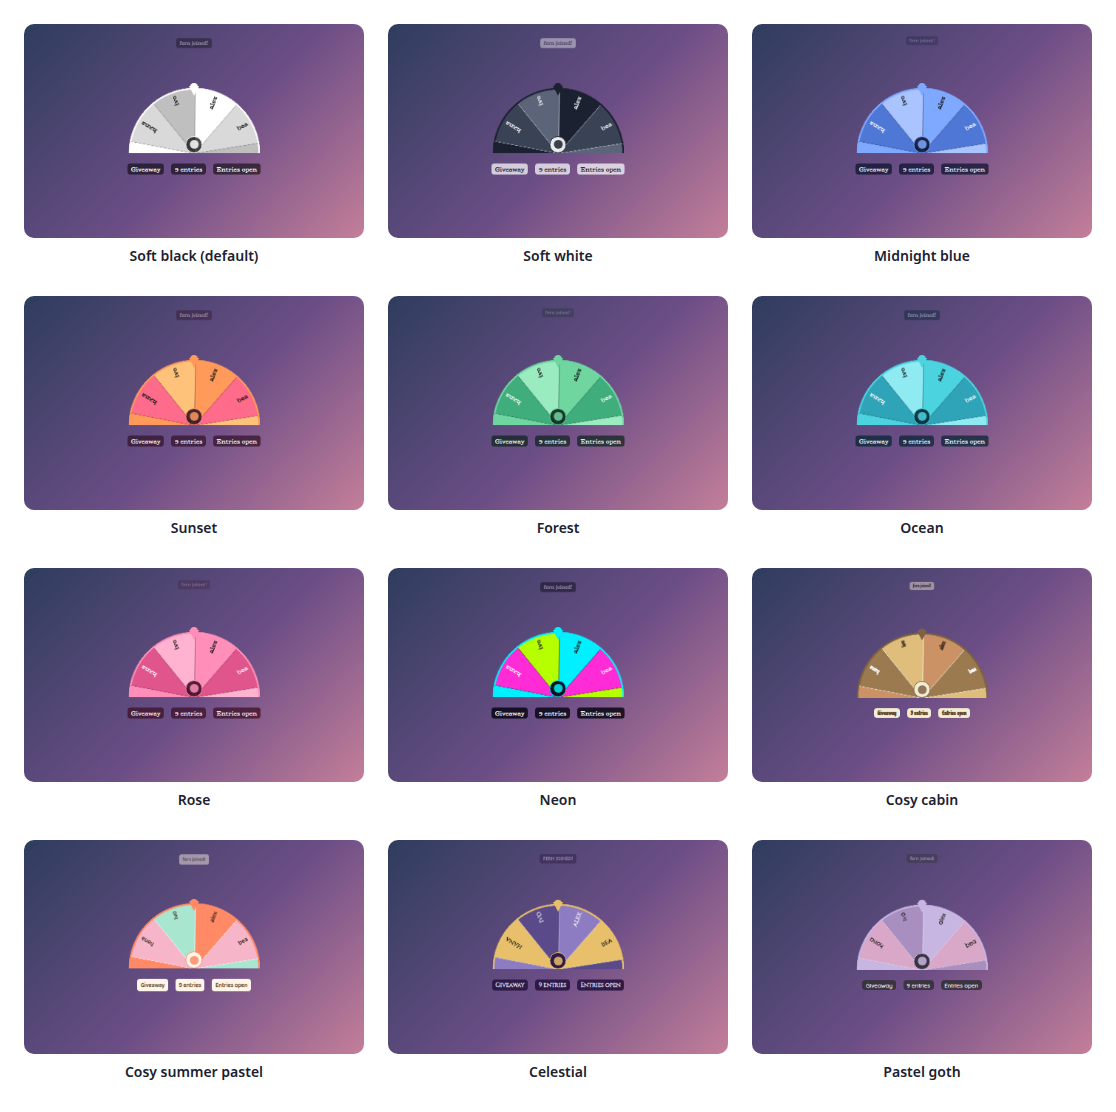
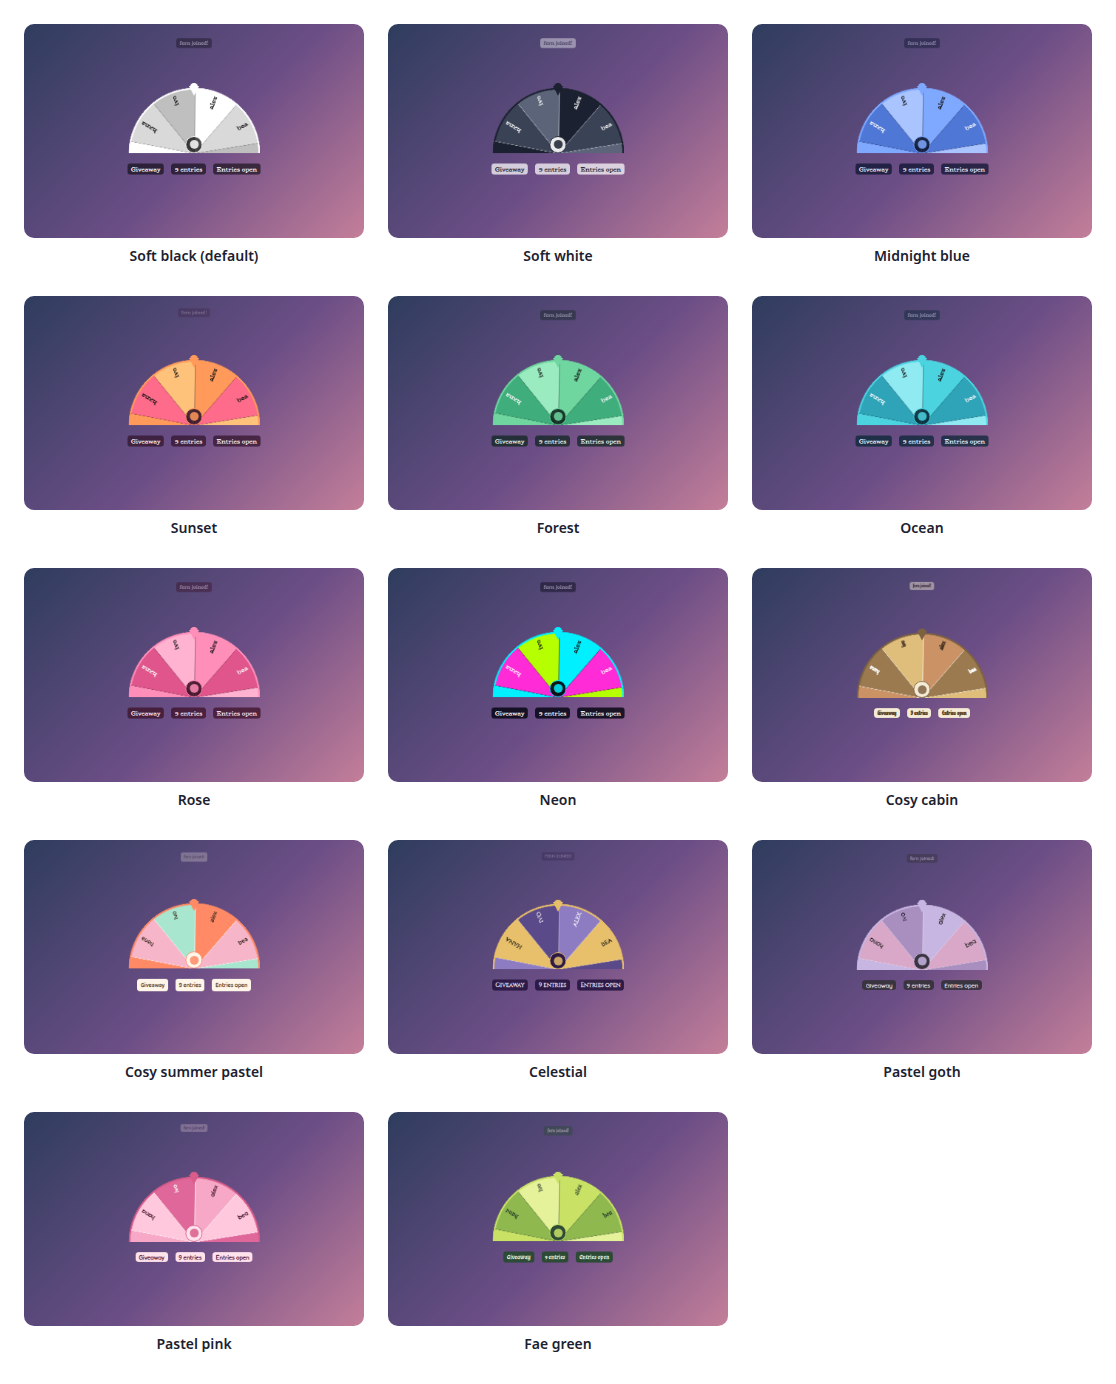
Add the Pastel pink and Fae green presets
Two more style presets join the shared set, so there are now fourteen. Pastel pink is a soft blush with rose, in Fredoka, whose rounded letters suit it, and Fae green is a mossy green with a firefly lime accent, in Almendra, a storybook serif. They are identical in every overlay in this set, the dropdown and the README gallery show all fourteen, and the test checks each against the shared palette.

diff --git a/test/test-widget.js b/test/test-widget.js
@@ -483,11 +483,11 @@ function ok(cond, msg) { if (cond) { pass++; console.log("  PASS " + msg); } els
   ok(unhandled.length === 0, "every button is handled (unhandled: " + unhandled.join(", ") + ")");
 
 
-  // ---- style presets: the same twelve, with the same colours, in every overlay
+  // ---- style presets: the same fourteen, with the same colours, in every overlay
   console.log("\n[style presets]");
-  const EXPECT = {"glass": {"text": "#FFFFFF", "accent": "#FFFFFF", "panel": "rgba(0, 0, 0, 0.55)", "font": "BioRhyme"}, "frost": {"text": "#1B2130", "accent": "#1B2130", "panel": "rgba(255, 255, 255, 0.72)", "font": "BioRhyme"}, "midnight": {"text": "#E8EEFF", "accent": "#7FA8FF", "panel": "rgba(10, 18, 46, 0.72)", "font": "BioRhyme"}, "sunset": {"text": "#FFF1E6", "accent": "#FF9A5A", "panel": "rgba(48, 18, 42, 0.72)", "font": "BioRhyme"}, "forest": {"text": "#EAF7EE", "accent": "#6FD6A0", "panel": "rgba(12, 36, 28, 0.72)", "font": "BioRhyme"}, "ocean": {"text": "#E6F8FF", "accent": "#4CD3E0", "panel": "rgba(6, 36, 50, 0.72)", "font": "BioRhyme"}, "rose": {"text": "#FFE9F1", "accent": "#FF8FB8", "panel": "rgba(58, 14, 34, 0.72)", "font": "BioRhyme"}, "neon": {"text": "#FFFFFF", "accent": "#00F0FF", "panel": "rgba(4, 4, 16, 0.82)", "font": "BioRhyme"}, "cosycabin": {"text": "#57442E", "accent": "#7C6142", "panel": "#F5ECD6", "font": "Chicle"}, "pastel": {"text": "#6B4F3A", "accent": "#FF8A65", "panel": "#FFF6E9", "font": "Baloo 2"}, "celestial": {"text": "#F3ECFF", "accent": "#E8C06B", "panel": "#2E1A47", "font": "Cinzel"}, "pastelgoth": {"text": "#F2E9F0", "accent": "#C8B6E2", "panel": "#3A3340", "font": "Quicksand"}};
-  const LABELS = {"glass": "Soft black (default)", "frost": "Soft white", "midnight": "Midnight blue", "sunset": "Sunset", "forest": "Forest", "ocean": "Ocean", "rose": "Rose", "neon": "Neon", "cosycabin": "Cosy cabin", "pastel": "Cosy summer pastel", "celestial": "Celestial", "pastelgoth": "Pastel goth", "custom": "Custom (use the colours below)"};
-  ok(JSON.stringify(Object.keys(fields.themePreset.options)) === JSON.stringify(Object.keys(LABELS)) && Object.keys(LABELS).length === 13, "the dropdown offers the twelve shared presets and Custom, in the shared order");
+  const EXPECT = {"glass": {"text": "#FFFFFF", "accent": "#FFFFFF", "panel": "rgba(0, 0, 0, 0.55)", "font": "BioRhyme"}, "frost": {"text": "#1B2130", "accent": "#1B2130", "panel": "rgba(255, 255, 255, 0.72)", "font": "BioRhyme"}, "midnight": {"text": "#E8EEFF", "accent": "#7FA8FF", "panel": "rgba(10, 18, 46, 0.72)", "font": "BioRhyme"}, "sunset": {"text": "#FFF1E6", "accent": "#FF9A5A", "panel": "rgba(48, 18, 42, 0.72)", "font": "BioRhyme"}, "forest": {"text": "#EAF7EE", "accent": "#6FD6A0", "panel": "rgba(12, 36, 28, 0.72)", "font": "BioRhyme"}, "ocean": {"text": "#E6F8FF", "accent": "#4CD3E0", "panel": "rgba(6, 36, 50, 0.72)", "font": "BioRhyme"}, "rose": {"text": "#FFE9F1", "accent": "#FF8FB8", "panel": "rgba(58, 14, 34, 0.72)", "font": "BioRhyme"}, "neon": {"text": "#FFFFFF", "accent": "#00F0FF", "panel": "rgba(4, 4, 16, 0.82)", "font": "BioRhyme"}, "cosycabin": {"text": "#57442E", "accent": "#7C6142", "panel": "#F5ECD6", "font": "Chicle"}, "pastel": {"text": "#6B4F3A", "accent": "#FF8A65", "panel": "#FFF6E9", "font": "Baloo 2"}, "celestial": {"text": "#F3ECFF", "accent": "#E8C06B", "panel": "#2E1A47", "font": "Cinzel"}, "pastelgoth": {"text": "#F2E9F0", "accent": "#C8B6E2", "panel": "#3A3340", "font": "Quicksand"}, "pastelpink": {"text": "#6A2E4B", "accent": "#D95C8A", "panel": "#FFE3EC", "font": "Fredoka"}, "faegreen": {"text": "#EEF5DA", "accent": "#C9E265", "panel": "#2C4A36", "font": "Almendra"}};
+  const LABELS = {"glass": "Soft black (default)", "frost": "Soft white", "midnight": "Midnight blue", "sunset": "Sunset", "forest": "Forest", "ocean": "Ocean", "rose": "Rose", "neon": "Neon", "cosycabin": "Cosy cabin", "pastel": "Cosy summer pastel", "celestial": "Celestial", "pastelgoth": "Pastel goth", "pastelpink": "Pastel pink", "faegreen": "Fae green", "custom": "Custom (use the colours below)"};
+  ok(JSON.stringify(Object.keys(fields.themePreset.options)) === JSON.stringify(Object.keys(LABELS)) && Object.keys(LABELS).length === 15, "the dropdown offers the fourteen shared presets and Custom, in the shared order");
   ok(Object.keys(LABELS).every(k => fields.themePreset.options[k] === LABELS[k]), "with the shared labels");
   ok(fields.themePreset.value === "glass", "and Soft black is the default");
   for (const key of Object.keys(EXPECT)) {

diff --git a/widget/widget.js b/widget/widget.js
@@ -14,7 +14,7 @@
 
   var STORE_KEY = "spin_wheel_v1";
 
-  /* Style presets. The same twelve, with the same colours, in every overlay in this
+  /* Style presets. The same fourteen, with the same colours, in every overlay in this
      set, generated from one table so they cannot drift apart, so any preset looks
      like one family across a whole stream. The default, Soft black, is a see-through
      black panel with white text. */
@@ -90,6 +90,18 @@
       segs: ["#C8B6E2", "#D9A7C7", "#A88FC0", "#8E7B9E", "#6E6080", "#B695C8"],
       font: "Quicksand",
       parts: {"pillBg": "#3A3340", "pill": "#F2E9F0", "toastBg": "#3A3340", "toast": "#F2E9F0", "cardBg": "#3A3340", "card": "#F2E9F0", "eyebrowBg": "#C8B6E2", "eyebrow": "#3A3340", "idle": "#F2E9F0", "goal": "#F2E9F0", "goalTrack": "rgba(255, 255, 255, 0.18)", "goalFrom": "#D9A7C7", "goalTo": "#C8B6E2", "hub": "#3A3340", "hubRing": "#C8B6E2", "spent": "#C96A8E", "refused": "#C96A8E", "labelDark": "#111111", "labelLight": "#FFFFFF", "divider": "rgba(255, 255, 255, 0.35)", "border": "transparent"}
+    },
+    pastelpink: {
+      bg: "#FFE3EC", text: "#6A2E4B", accent: "#D95C8A", pointer: "#D95C8A",
+      segs: ["#F7A8C6", "#FFC8DD", "#E0679A", "#FBB1BD", "#D98BB0", "#FFD6E6"],
+      font: "Fredoka",
+      parts: {"pillBg": "#FFE3EC", "pill": "#6A2E4B", "toastBg": "#FFE3EC", "toast": "#6A2E4B", "cardBg": "#FFE3EC", "card": "#6A2E4B", "eyebrowBg": "#D95C8A", "eyebrow": "#FFF5F9", "idle": "#6A2E4B", "goal": "#6A2E4B", "goalTrack": "rgba(106, 46, 75, 0.14)", "goalFrom": "#F7A8C6", "goalTo": "#E0679A", "hub": "#FFE3EC", "hubRing": "#D95C8A", "spent": "#D6456F", "refused": "#D6456F", "labelDark": "#4a1d33", "labelLight": "#FFFFFF", "divider": "rgba(255, 255, 255, 0.75)", "border": "transparent"}
+    },
+    faegreen: {
+      bg: "#2C4A36", text: "#EEF5DA", accent: "#C9E265", pointer: "#C9E265",
+      segs: ["#C9E265", "#8FB84E", "#E6F29A", "#6E9A45", "#F2F7C0", "#A8CB62"],
+      font: "Almendra",
+      parts: {"pillBg": "#2C4A36", "pill": "#EEF5DA", "toastBg": "#2C4A36", "toast": "#EEF5DA", "cardBg": "#2C4A36", "card": "#EEF5DA", "eyebrowBg": "#C9E265", "eyebrow": "#2C4A36", "idle": "#EEF5DA", "goal": "#EEF5DA", "goalTrack": "rgba(238, 245, 218, 0.2)", "goalFrom": "#8FB84E", "goalTo": "#D7EE7A", "hub": "#2C4A36", "hubRing": "#C9E265", "spent": "#E0805A", "refused": "#E0805A", "labelDark": "#1F3326", "labelLight": "#FFFFFF", "divider": "rgba(44, 74, 54, 0.45)", "border": "transparent"}
     }
   };
   // The baseline the colour fields default to; a preset shows through only until

diff --git a/dev/harness.js b/dev/harness.js
@@ -84,7 +84,7 @@
     var def = fieldDefs.themePreset;
     host.innerHTML =
       (def ? '<div class="row"><label for="look-preset">Style preset</label> <select id="look-preset"></select></div>' +
-        '<p class="hint">The same twelve presets are in every overlay in this set. Custom uses the colour settings below.</p>' : '') +
+        '<p class="hint">The same fourteen presets are in every overlay in this set. Custom uses the colour settings below.</p>' : '') +
       '<div class="row"><button id="export-download" class="go">Download fields.json</button>' +
       '<button id="export-copy" class="alt">Copy fields.json</button></div>' +
       '<p class="hint">Your current settings as a fields.json for StreamElements. Paste it into the Fields tab of a new custom widget and it starts out as you see it here.</p>' +

diff --git a/README.md b/README.md
@@ -29,15 +29,15 @@ It started as a raffle and grew into a wheel that also runs forfeit spins, weigh
 
 <p><img src="docs/forfeits.png" alt="A full circle wheel with six forfeits in shades of white and grey" width="420"></p>
 
-**Your own look.** Every part is a setting. This one uses custom slice colours, a thicker rim, white dividers, rounder pills and a pink theme. You can also pick any of the twelve [style presets](#style-presets) with one setting.
+**Your own look.** Every part is a setting. This one uses custom slice colours, a thicker rim, white dividers, rounder pills and a pink theme. You can also pick any of the fourteen [style presets](#style-presets) with one setting.
 
 <p><img src="docs/custom.png" alt="A full circle wheel with pastel slices, a pink rim and pointer" width="420"></p>
 
 ## Style presets
 
-One setting picks the look. The same twelve presets, with the same colours, are in every overlay in this set, so overlays from this set match whichever you choose. This is how each one looks in this overlay.
+One setting picks the look. The same fourteen presets, with the same colours, are in every overlay in this set, so overlays from this set match whichever you choose. This is how each one looks in this overlay.
 
-<p><img src="docs/presets.png" alt="A grid of this overlay in each of the twelve style presets: Soft black, Soft white, Midnight blue, Sunset, Forest, Ocean, Rose, Neon, Cosy cabin, Cosy summer pastel, Celestial and Pastel goth" width="760"></p>
+<p><img src="docs/presets.png" alt="A grid of this overlay in each of the fourteen style presets: Soft black, Soft white, Midnight blue, Sunset, Forest, Ocean, Rose, Neon, Cosy cabin, Cosy summer pastel, Celestial, Pastel goth, Pastel pink and Fae green" width="760"></p>
 
 | Preset | Look |
 | --- | --- |
@@ -53,6 +53,8 @@ One setting picks the look. The same twelve presets, with the same colours, are 
 | Cosy summer pastel | Warm cream and coral, in Baloo 2. |
 | Celestial | Deep purple and gold, in Cinzel. |
 | Pastel goth | Charcoal and lilac, in Quicksand. |
+| Pastel pink | Soft blush pink with rose, in Fredoka. |
+| Fae green | Mossy green with a firefly lime accent, in Almendra. |
 
 Choose **Custom** to use the colour pickers and font instead. They are ignored while a preset is chosen.
 
@@ -108,7 +110,7 @@ Chat submits questions with `!spinask`, and the wheel draws one that stays on sc
 
 The default look is *Soft black*: see-through black pills and cards, white text in BioRhyme, and slices in shades of white and grey. In the **Theme** group you can:
 
-- Pick a **style preset**: one of the twelve shared presets (see [Style presets](#style-presets)). A preset sets the whole palette and font at once, and colours every part (pills, toast, winner card, goal bar, hub) from its own tones.
+- Pick a **style preset**: one of the fourteen shared presets (see [Style presets](#style-presets)). A preset sets the whole palette and font at once, and colours every part (pills, toast, winner card, goal bar, hub) from its own tones.
 - Set the style preset to **Custom** to use your own colours and font. There is a colour picker for the panel (with an opacity), the text, the accent, the pointer, each of the six slices, and every individual part: pills, the joined toast, the winner card and its label, the empty-wheel message, the goal bar, the hub, the outline and the names on light and dark slices.
 - Choose the **wheel shape**: *Semicircle* (the default) shows only the top half so it takes about half the height, which suits tucking it along an edge of a scene, and *Full circle* is the classic wheel. Both spin and draw the same way.
 
@@ -129,7 +131,7 @@ Every setting has a plain label in StreamElements, grouped as follows.
 | Wheel | The shape, idle drift, chat-colour slices, the rim and divider thickness, the size and boldness of the names, the hub ring and a shadow. |
 | Pills and cards | The roundness, padding and tilt of pills, the toast and the winner card, the goal bar's thickness, an outline, tails and shadows. |
 | Text | The size and boldness of the empty-wheel message, toast, pills, goal label, winner label, winner name, line under the winner and lifelines. |
-| Theme | One of the twelve shared style presets (Soft black by default) or Custom colours and font, with a colour for every part. |
+| Theme | One of the fourteen shared style presets (Soft black by default) or Custom colours and font, with a colour for every part. |
 | Animation | One switch for all animation, the spin and winner display times, and how long the toast, card, goal bar and countdown pulse take. |
 | Sounds | A sound and volume for someone joining, each tick and the winner, plus a master mute. |
 | Manual controls | Buttons for spin, open, close, clear, switch mode, reroll, re-show and the Truth or... controls, and to test each sound. |
@@ -189,7 +191,7 @@ The widget uses the StreamElements events `onWidgetLoad`, `onEventReceived` (`me
 
 ## Related overlays
 
-These overlays share the same default look and the same twelve style presets, so they sit together on one stream.
+These overlays share the same default look and the same fourteen style presets, so they sit together on one stream.
 
 - [Sub Goals Overlay](https://github.com/jordan-lee-code/sub-goals-overlay): sub and bits goals that fill as chat reaches them.
 - [Subathon Overlay](https://github.com/jordan-lee-code/subathon-overlay): a subathon clock with a cap, power-ups and sub goals.

diff --git a/CONTRIBUTING.md b/CONTRIBUTING.md
@@ -22,7 +22,7 @@ The dev harness stands in for StreamElements, so you can try changes without goi
 4. When you add a setting, add it to `widget/fields.json` and read it in `widget/widget.js`.
 5. Add or update tests in `test/`, and make sure `npm test` passes.
 6. If behaviour changes, update the README.
-7. The twelve style presets are shared by every overlay in this set, with identical colours, so they look cohesive on one stream. They live in the `PRESETS` table in `widget/widget.js`, and a test checks each against the shared values. If you change a palette, make the same change in the other overlays and regenerate the gallery in `docs/presets.png`.
+7. The fourteen style presets are shared by every overlay in this set, with identical colours, so they look cohesive on one stream. They live in the `PRESETS` table in `widget/widget.js`, and a test checks each against the shared values. If you change a palette, make the same change in the other overlays and regenerate the gallery in `docs/presets.png`.
 
 ## Reporting a bug
 
